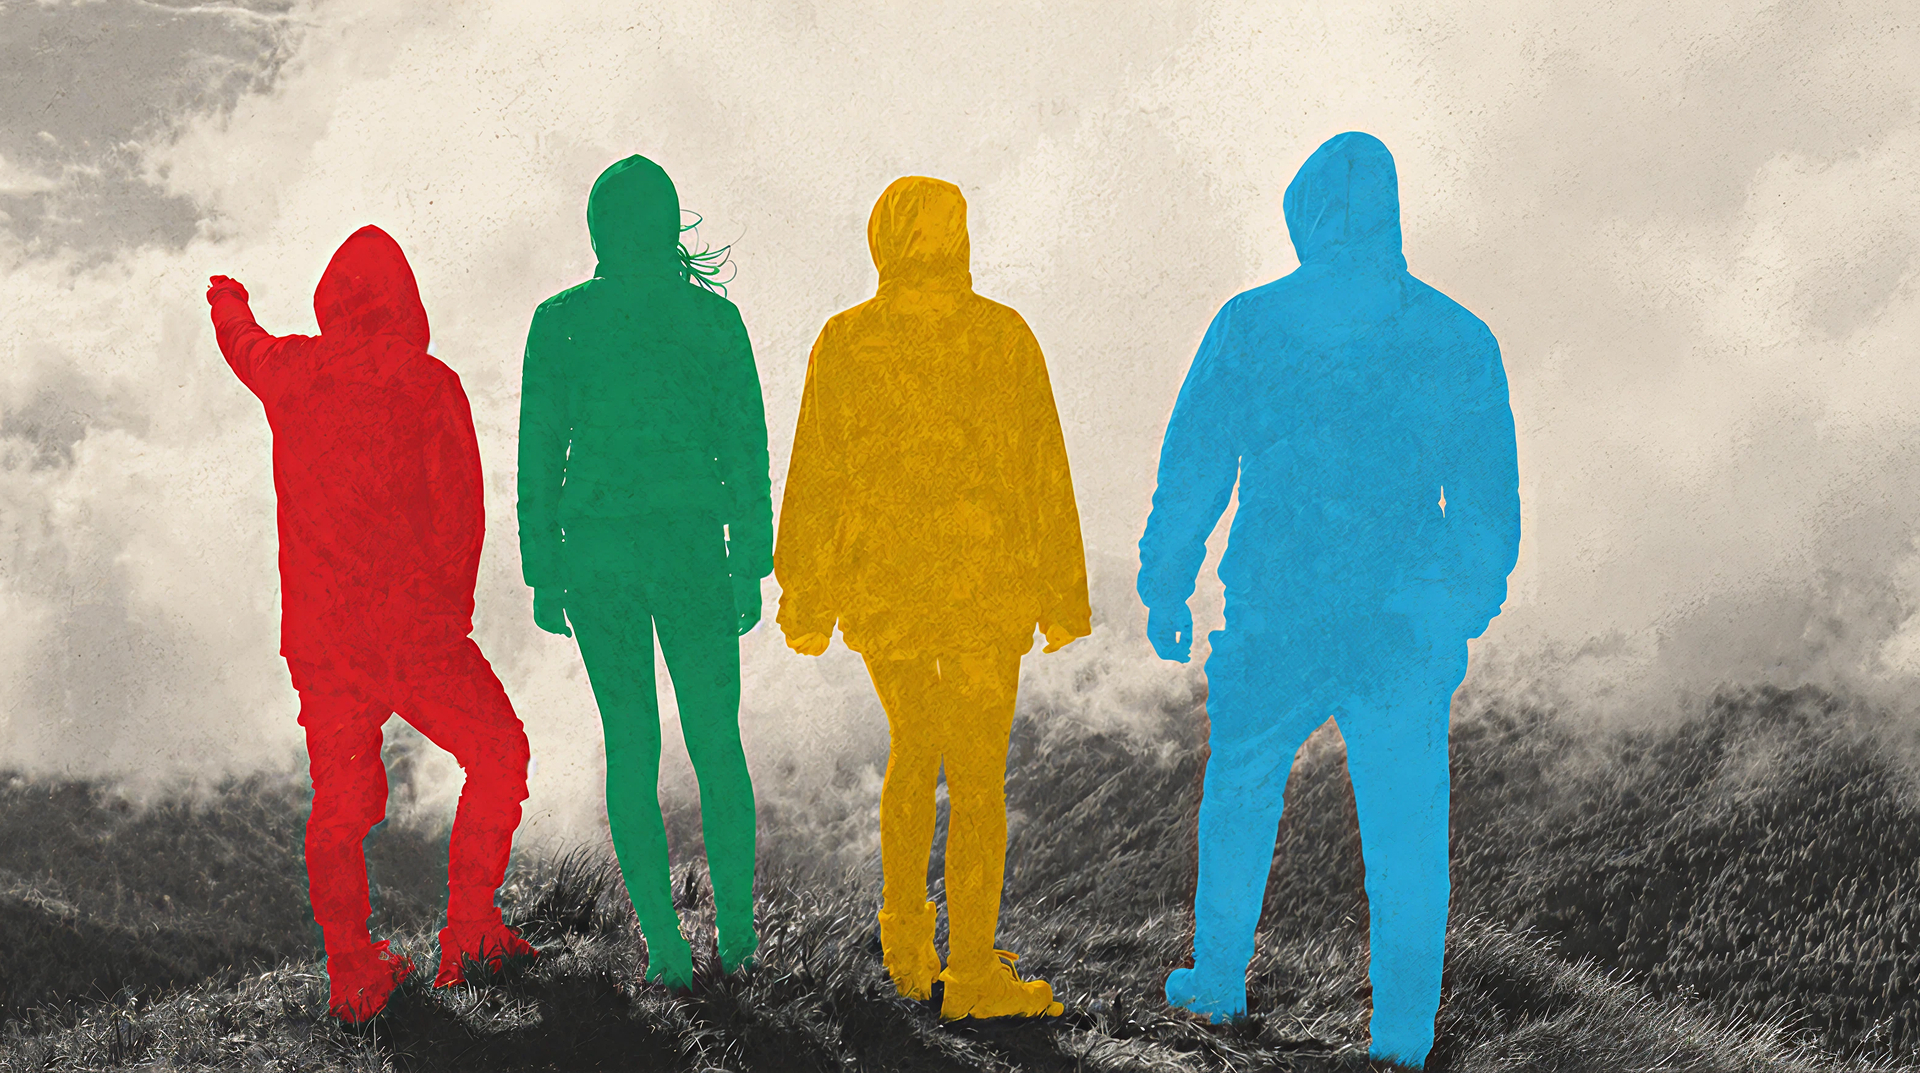
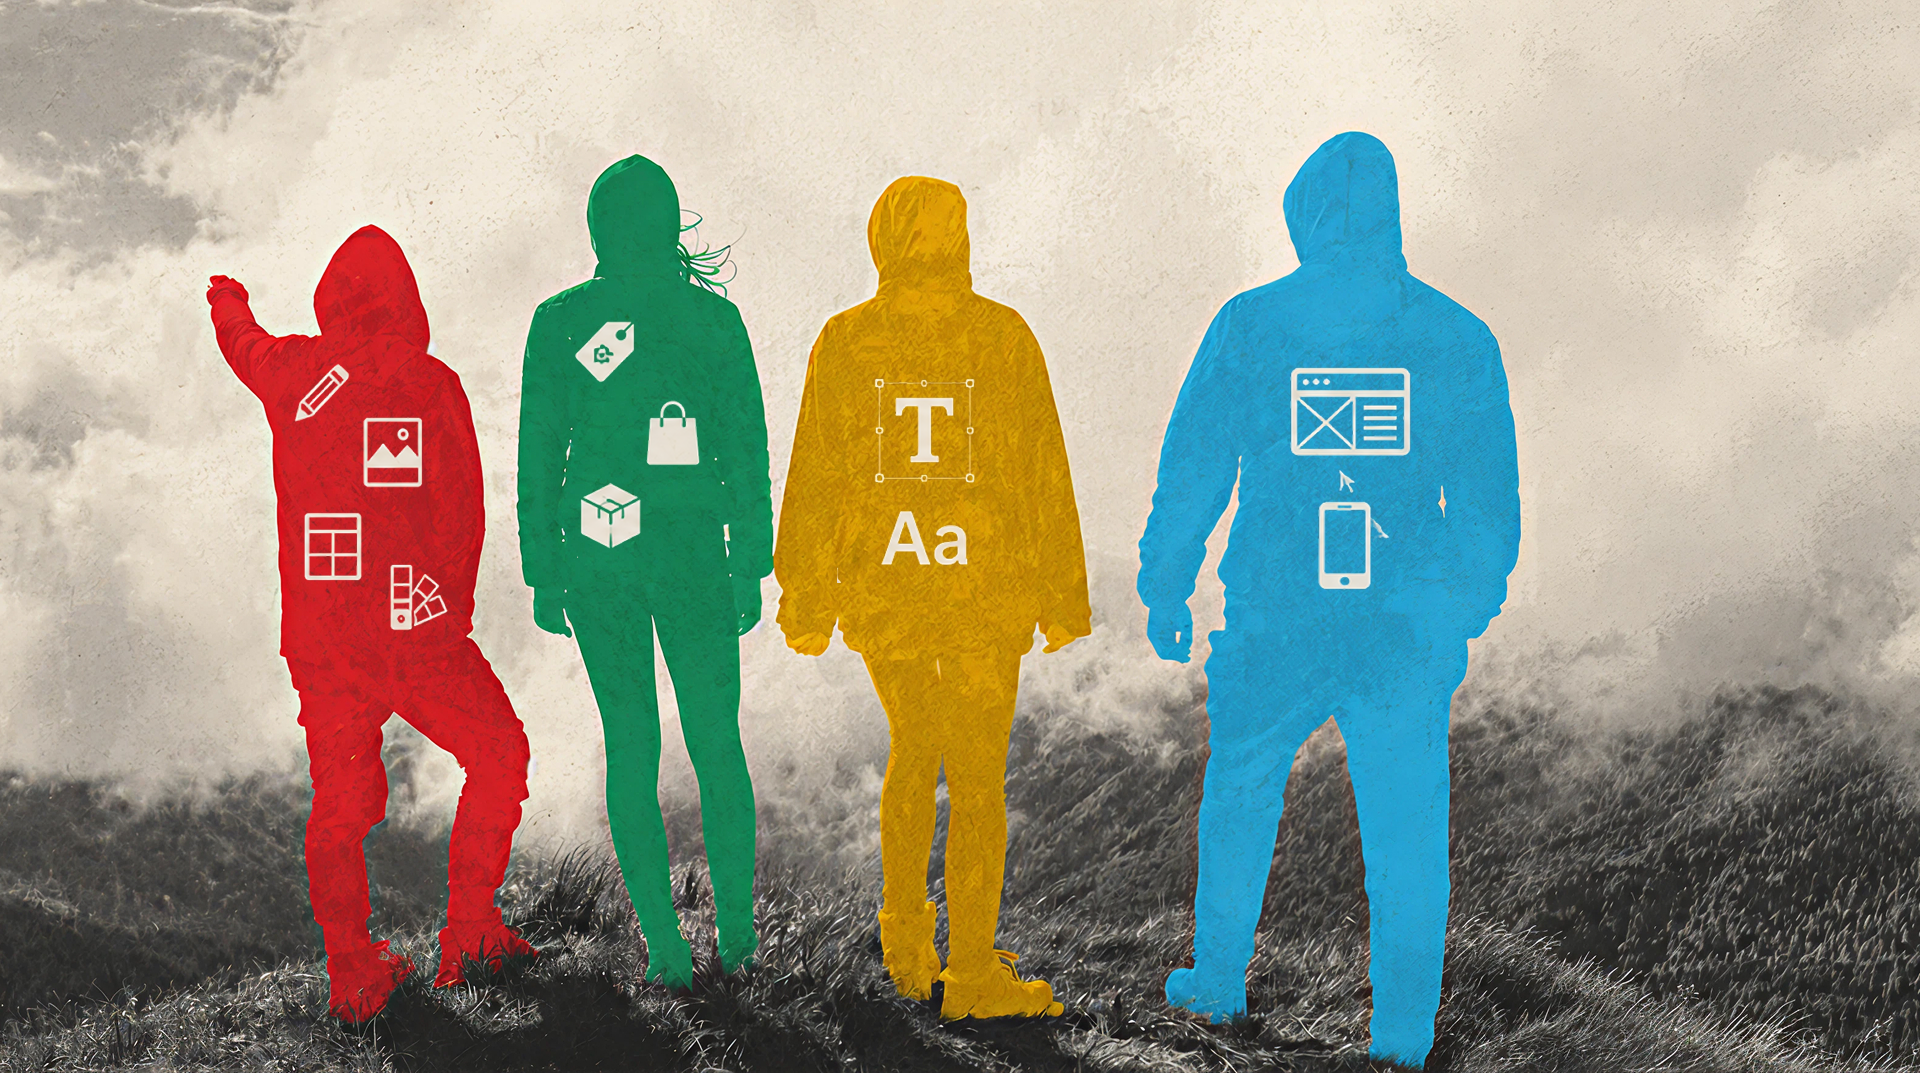
1

diff --git a/index.html b/index.html
@@ -192,6 +192,17 @@
         pointer-events: none;
       }
 
+.hero-front-people {
+  position: absolute;
+  right: 20px;
+  bottom: -100px;
+  z-index: 2;
+  width: 1200px;
+  filter: grayscale(1) contrast(1.05) brightness(0.76)
+    drop-shadow(0 14px 22px rgba(0, 0, 0, 0.42));
+  pointer-events: none;
+}
+
       .hero-content {
         min-height: 842px;
         display: flex;
@@ -199,7 +210,7 @@
         justify-content: center;
         align-items: flex-start;
         padding-top: 60px;
-        z-index: 3;
+        z-index: 4;
       }
 
       .hero .big-title {
@@ -537,9 +548,7 @@
       .about-bg {
         position: absolute;
         inset: 0;
-        background:
-          linear-gradient(90deg, rgba(0, 0, 0, 0.08), rgba(0, 0, 0, 0.22)),
-          url("images/about/eye-bg.jpg") center / cover no-repeat;
+        background: url("images/about/eye-bg.jpg") center / cover no-repeat;
       }
 
       .eye-detail {
@@ -568,7 +577,7 @@
         margin-left: auto;
         width: 42%;
         min-height: 700px;
-        background: rgba(0, 0, 0, 0.35);
+        background: transparent;
         display: flex;
         flex-direction: column;
         justify-content: center;
@@ -842,6 +851,13 @@
           transform: translateX(-10%);
         }
 
+        .hero-front-people {
+          width: 520px;
+          right: -170px;
+          bottom: 0;
+          opacity: 0.82;
+        }
+
         .visual-intro {
           min-height: 620px;
         }
@@ -954,7 +970,7 @@
           min-height: 620px;
           margin-left: 0;
           padding: 360px 30px 70px;
-          background: rgba(0, 0, 0, 0.35);
+          background: transparent;
           align-items: flex-end;
           text-align: right;
         }
@@ -1023,11 +1039,17 @@
           class="hero-red-person"
         />
 
+        <img
+          src="images/hero/hero-front-people.png"
+          alt="앞줄 관객 이미지"
+          class="hero-front-people"
+        />
+
         <div class="inner hero-content">
           <p class="section-label">INTERACTIVE PORTFOLIO WEBSITE</p>
           <h1 class="big-title">
-            Observe the Crowd,<br />
-            Find the Work.
+            군중 속에서 관찰하고,<br />
+            그 안의 메시지를 봅니다.
           </h1>
           <a href="#works" class="btn-primary">작품 탐색하기</a>
         </div>
@@ -1109,8 +1131,8 @@
             <div class="works-copy">
               <p class="section-label">WORKS LIST</p>
               <h2 class="section-title">
-                Fragments I Found,<br />
-                Works I Built.
+                내가 발견한 조각,<br />
+                내가 구축한 작업들.
               </h2>
             </div>
 
@@ -1179,8 +1201,8 @@
             <div class="tools-copy">
               <p class="section-label">TOOLS</p>
               <h2 class="tools-title">
-                Tools That Turn<br />
-                Noise into Form.
+                복잡한 감각을 <br />
+                만드는 도구의 능력치.
               </h2>
             </div>
 
@@ -1242,7 +1264,7 @@
         <div class="inner contact-content">
           <p class="section-label">CONTACT</p>
 
-          <h2>Let’s make a visual message.</h2>
+          <h2>함께 작업하고 싶다면,<br />메시지를 남겨주세요.</h2>
 
           <div class="contact-info">
             <p>Email. [email redacted]</p>